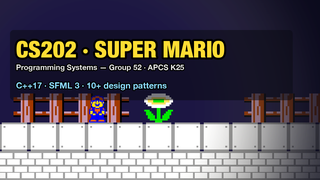
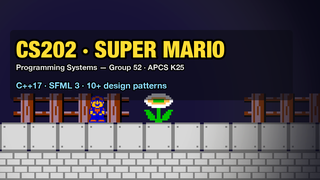
docs(thumbnail): soften game-layer brightness 1.4 -> 1.15
The 1.4 lift that made Mario read against the dark cave frame also blew
the ground tiles out to near-white. 1.15 keeps him legible at 320x180
while the stone reads as stone.

Changed region(s): [[0.0, 0.5556, 0.9062, 1.0]]

diff --git a/reports/assets/thumbnail/make_thumbnail.py b/reports/assets/thumbnail/make_thumbnail.py
@@ -66,7 +66,7 @@ def make_c():
     # demo), which reads as "underlit" rather than "atmospheric" once
     # cropped this tight. Lift it moderately so Mario and the flower read
     # clearly; the text layer below is untouched by this.
-    game_layer = ImageEnhance.Brightness(game_layer).enhance(1.4)
+    game_layer = ImageEnhance.Brightness(game_layer).enhance(1.15)
 
     base = game_layer.convert("RGB")
 
